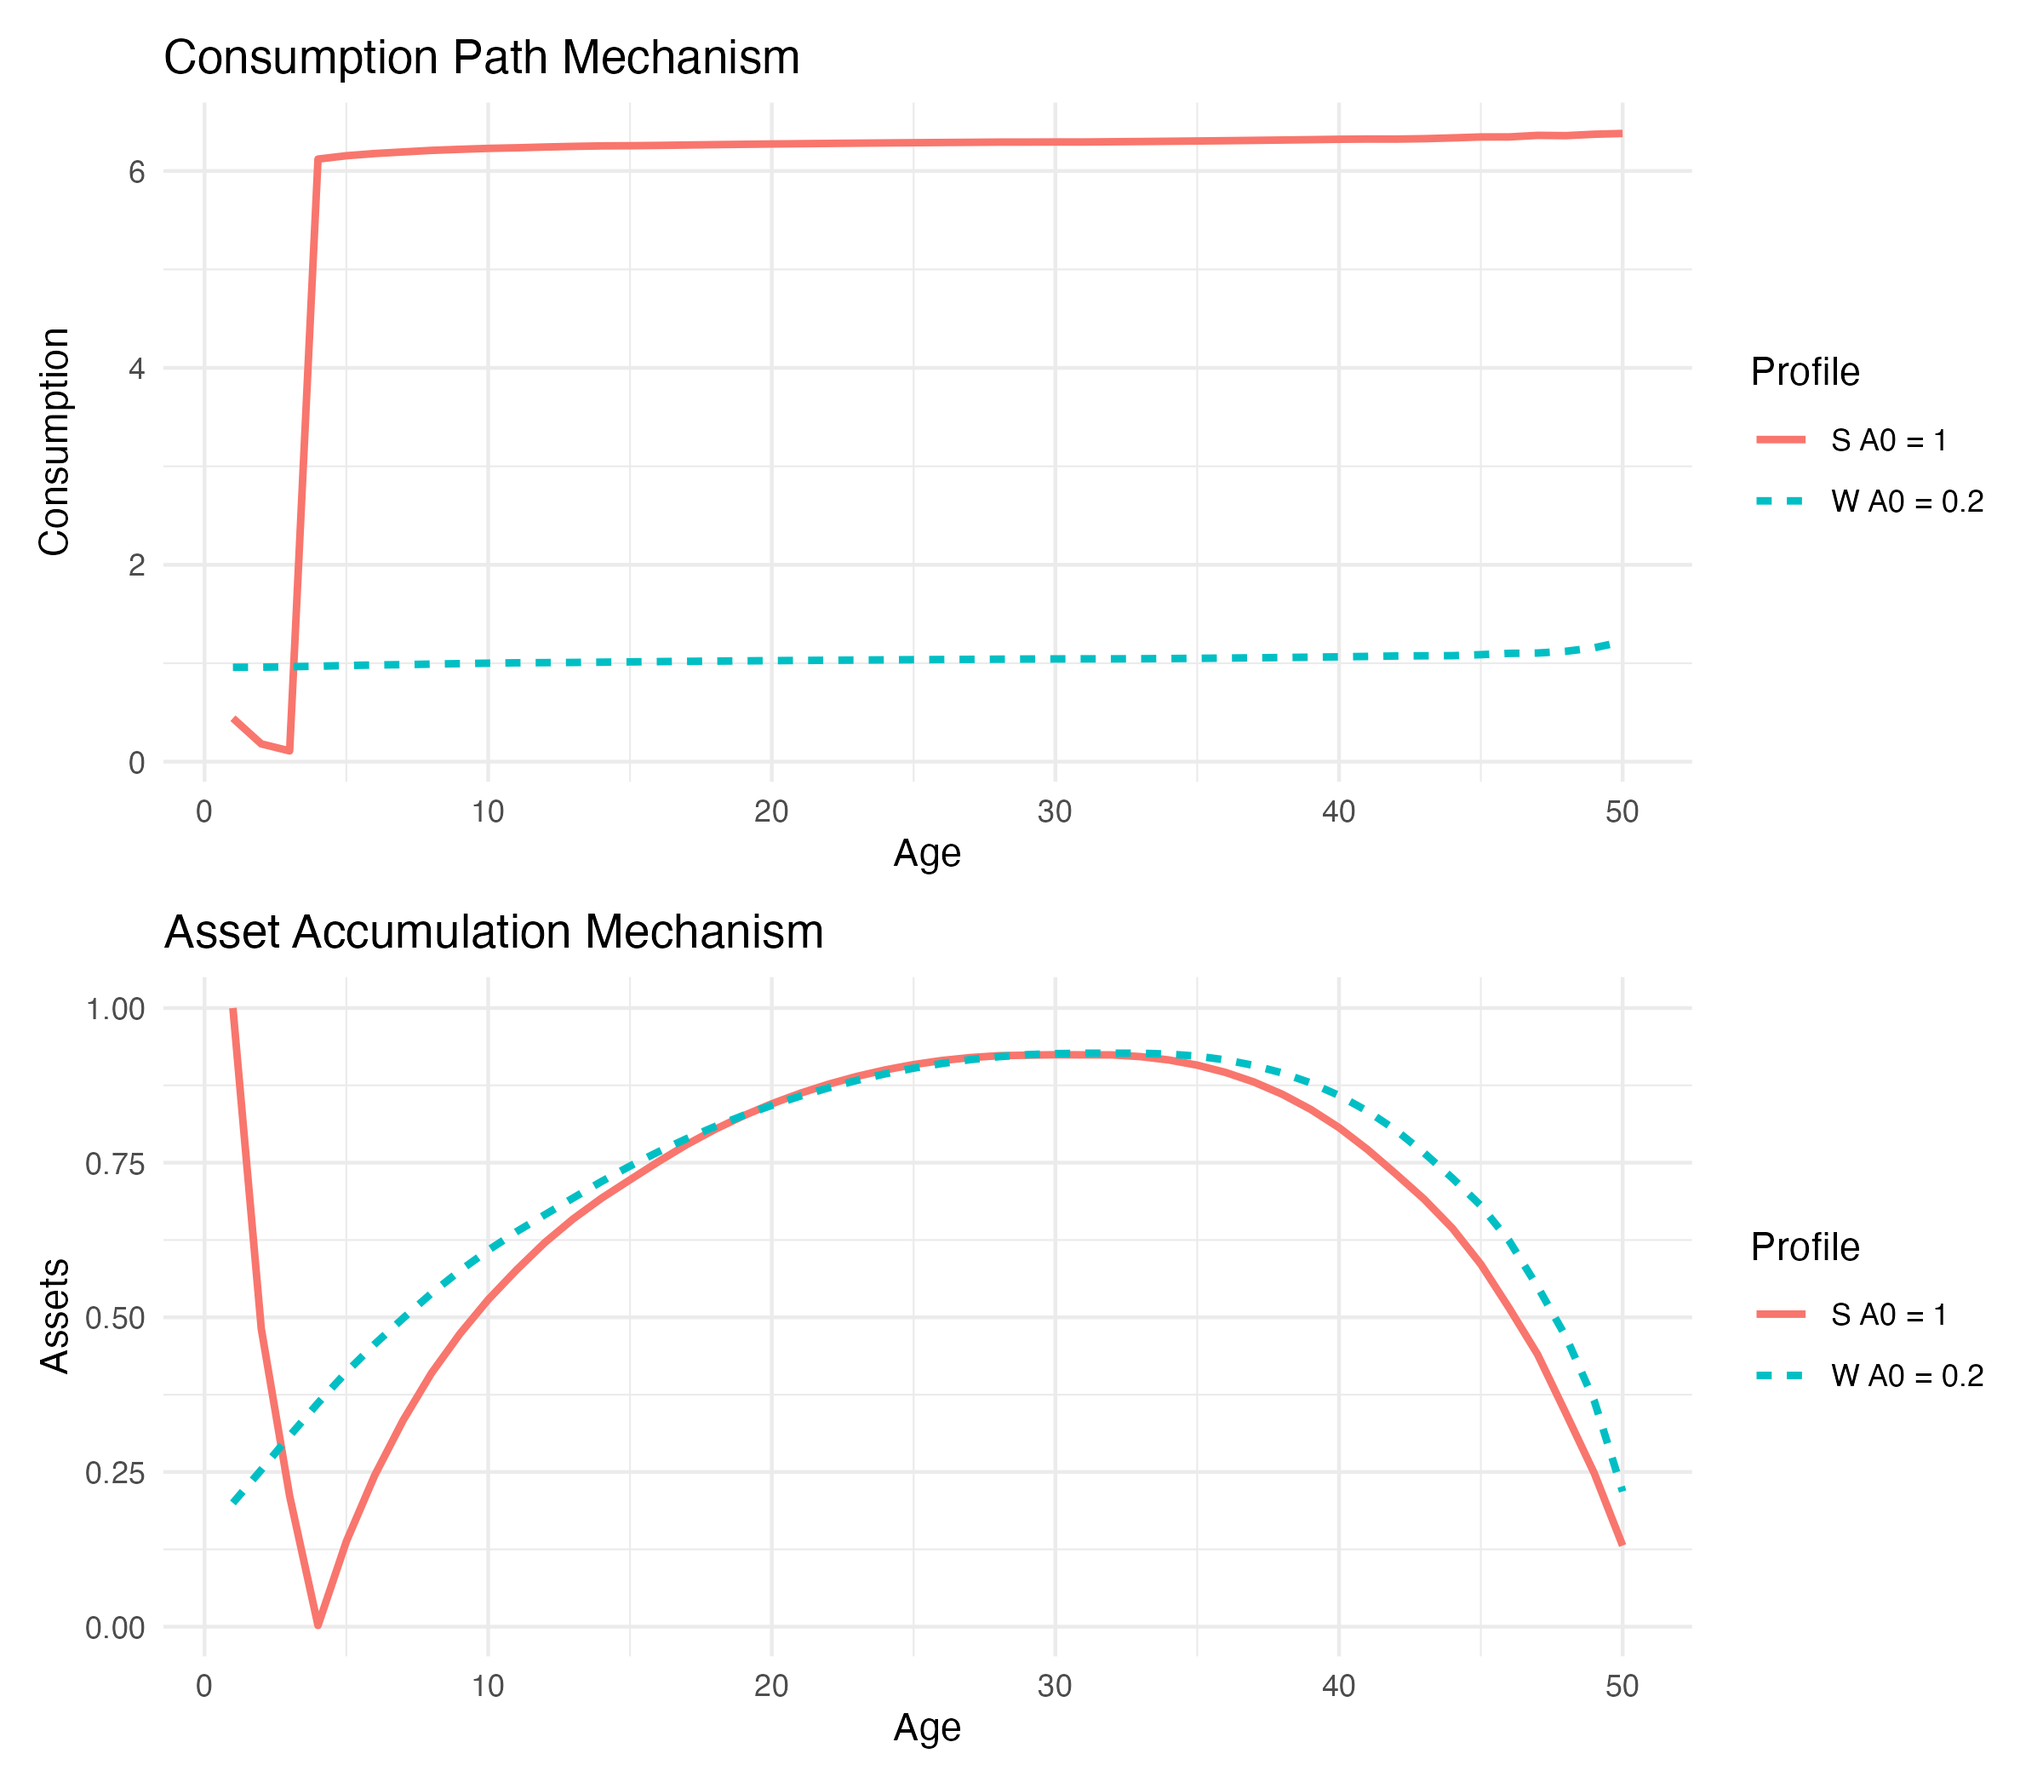
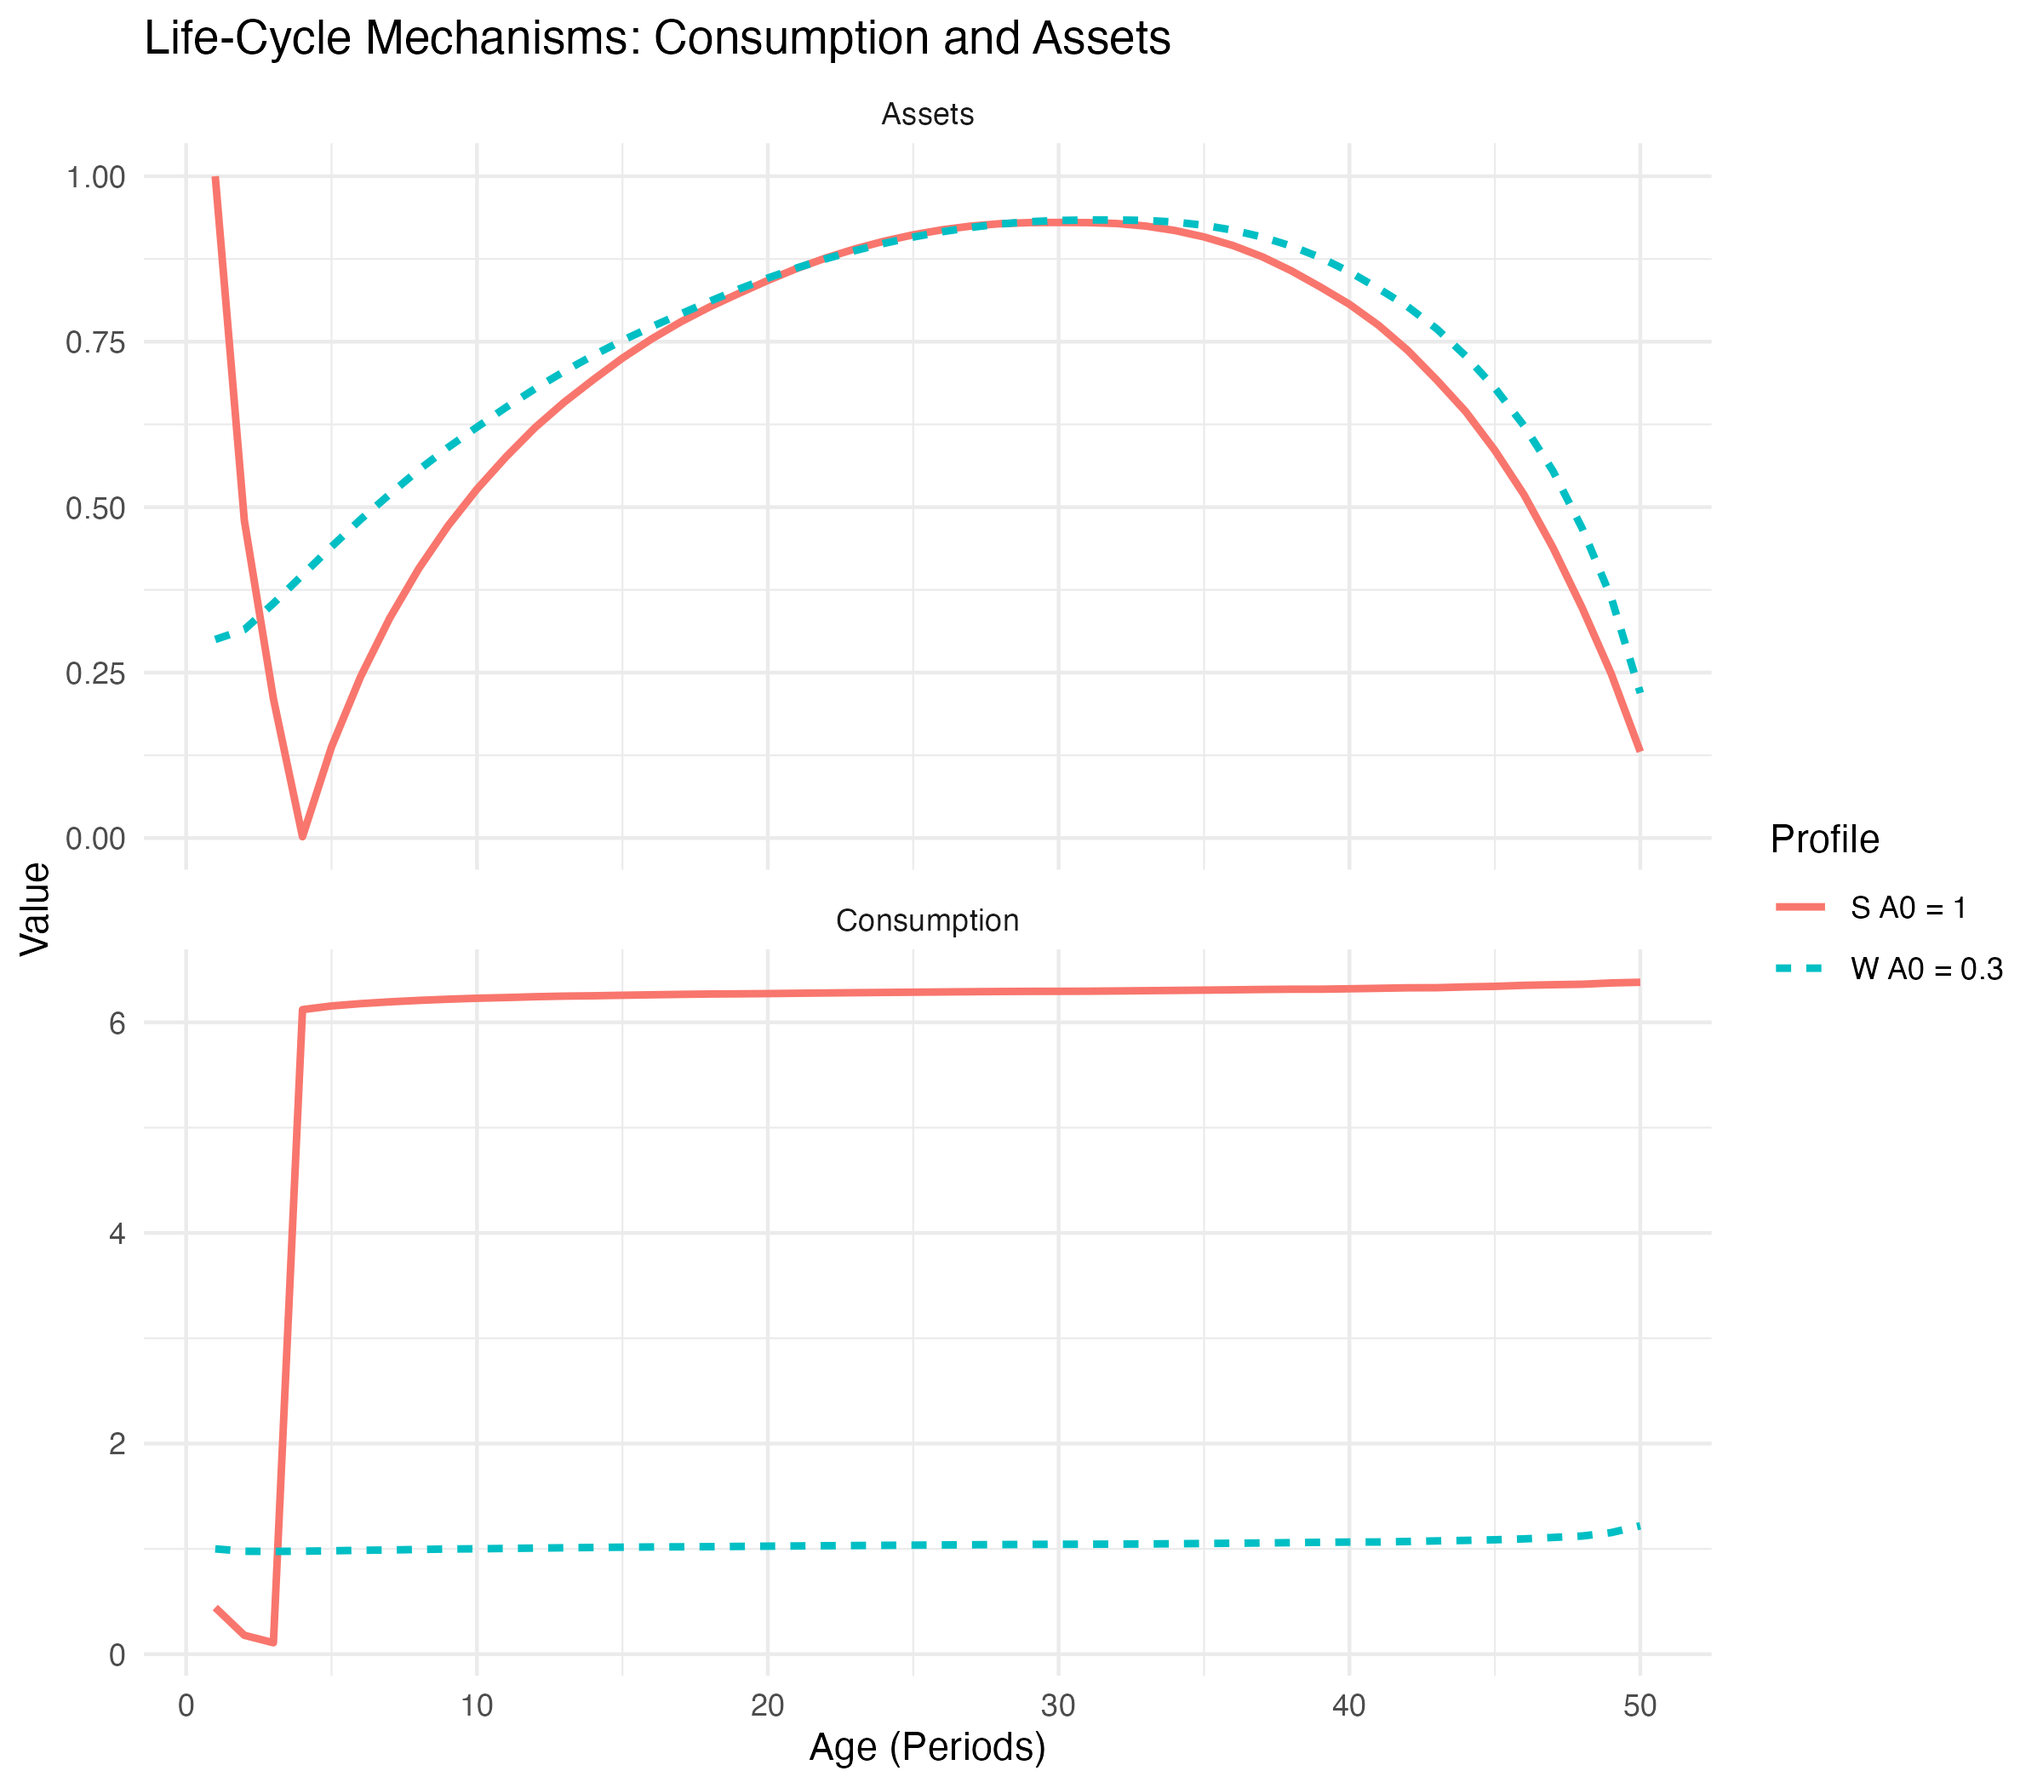
Add policy timing analysis & benchmarking updates
Update benchmarking and mechanism analysis: adjust microbenchmark to compare NK=100 and NK=500 (reduced repetitions to avoid long runs), restore NK=500 after benchmarking, and simplify benchmark summary to a single execution-time column. Introduce time-varying schooling transfer (omega$benefit_path) in parameters and propagate it to the solver (solve_model_path) and agent simulation (simulate_agent). Revamp mechanism plotting to show both consumption and assets (faceted) and change the sample worker initial wealth. Replace the previous robustness section (interest-rate / doubled B tests) with a policy-design comparison that evaluates several timing strategies, computes thresholds, writes a policy_designs table, and saves a policy_designs_comparison plot. Updated generated output files (figures and LaTeX tables) accordingly.

diff --git a/Output/Tables/policy_designs.tex b/Output/Tables/policy_designs.tex
@@ -1,12 +1,14 @@
 
 % Table created by stargazer v.5.2.3 by Marek Hlavac, Social Policy Institute. E-mail: marek.hlavac at gmail.com
-% Date and time: Tue, Apr 21, 2026 - 10:24:58
+% Date and time: Tue, Apr 21, 2026 - 10:31:37
 \begin{tabular}{@{\extracolsep{5pt}} cc} 
 \\[-1.8ex]\hline 
 \hline \\[-1.8ex] 
-Grid\_Size & Execution\_Time\_Seconds \\ 
+Program\_Design & Threshold\_A\_star \\ 
 \hline \\[-1.8ex] 
-NK = 100 & $12.400$ \\ 
-NK = 500 & $96.890$ \\ 
+No Policy & $1.251$ \\ 
+Even (Baseline) & $0.448$ \\ 
+End-Loaded (Bonus) & $0.756$ \\ 
+Front-Loaded (Rescue) & $0.524$ \\ 
 \hline \\[-1.8ex] 
 \end{tabular} 
